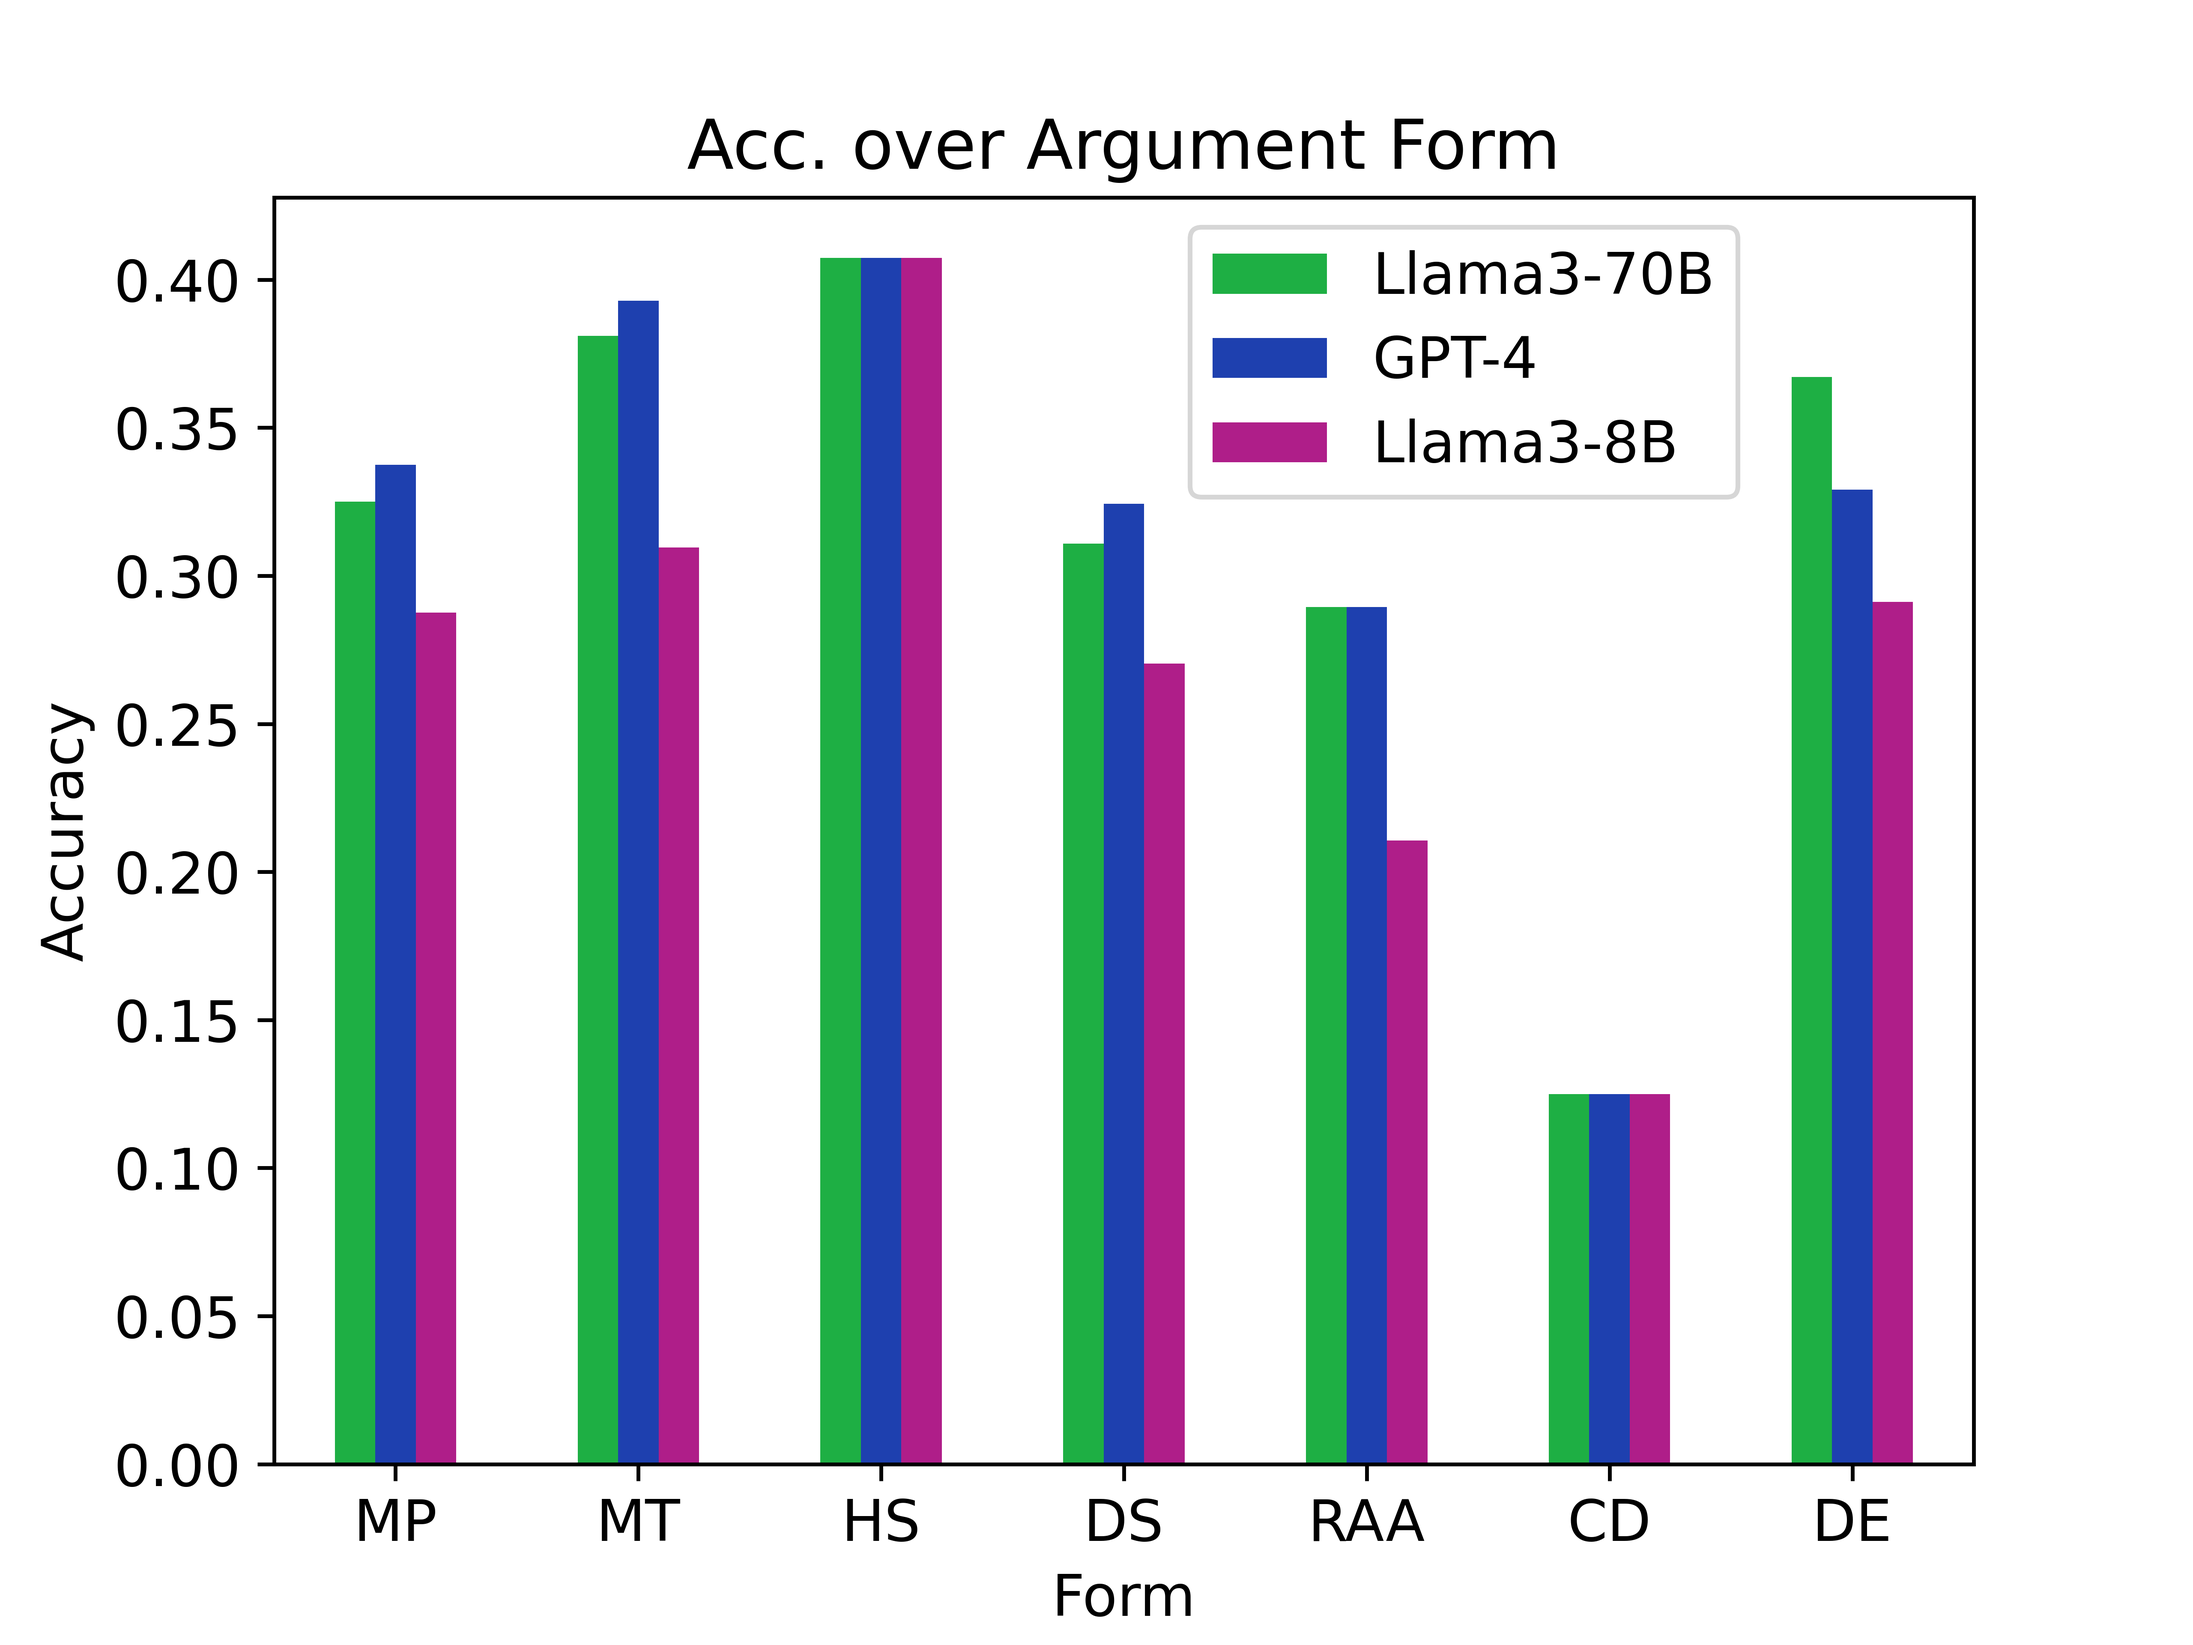
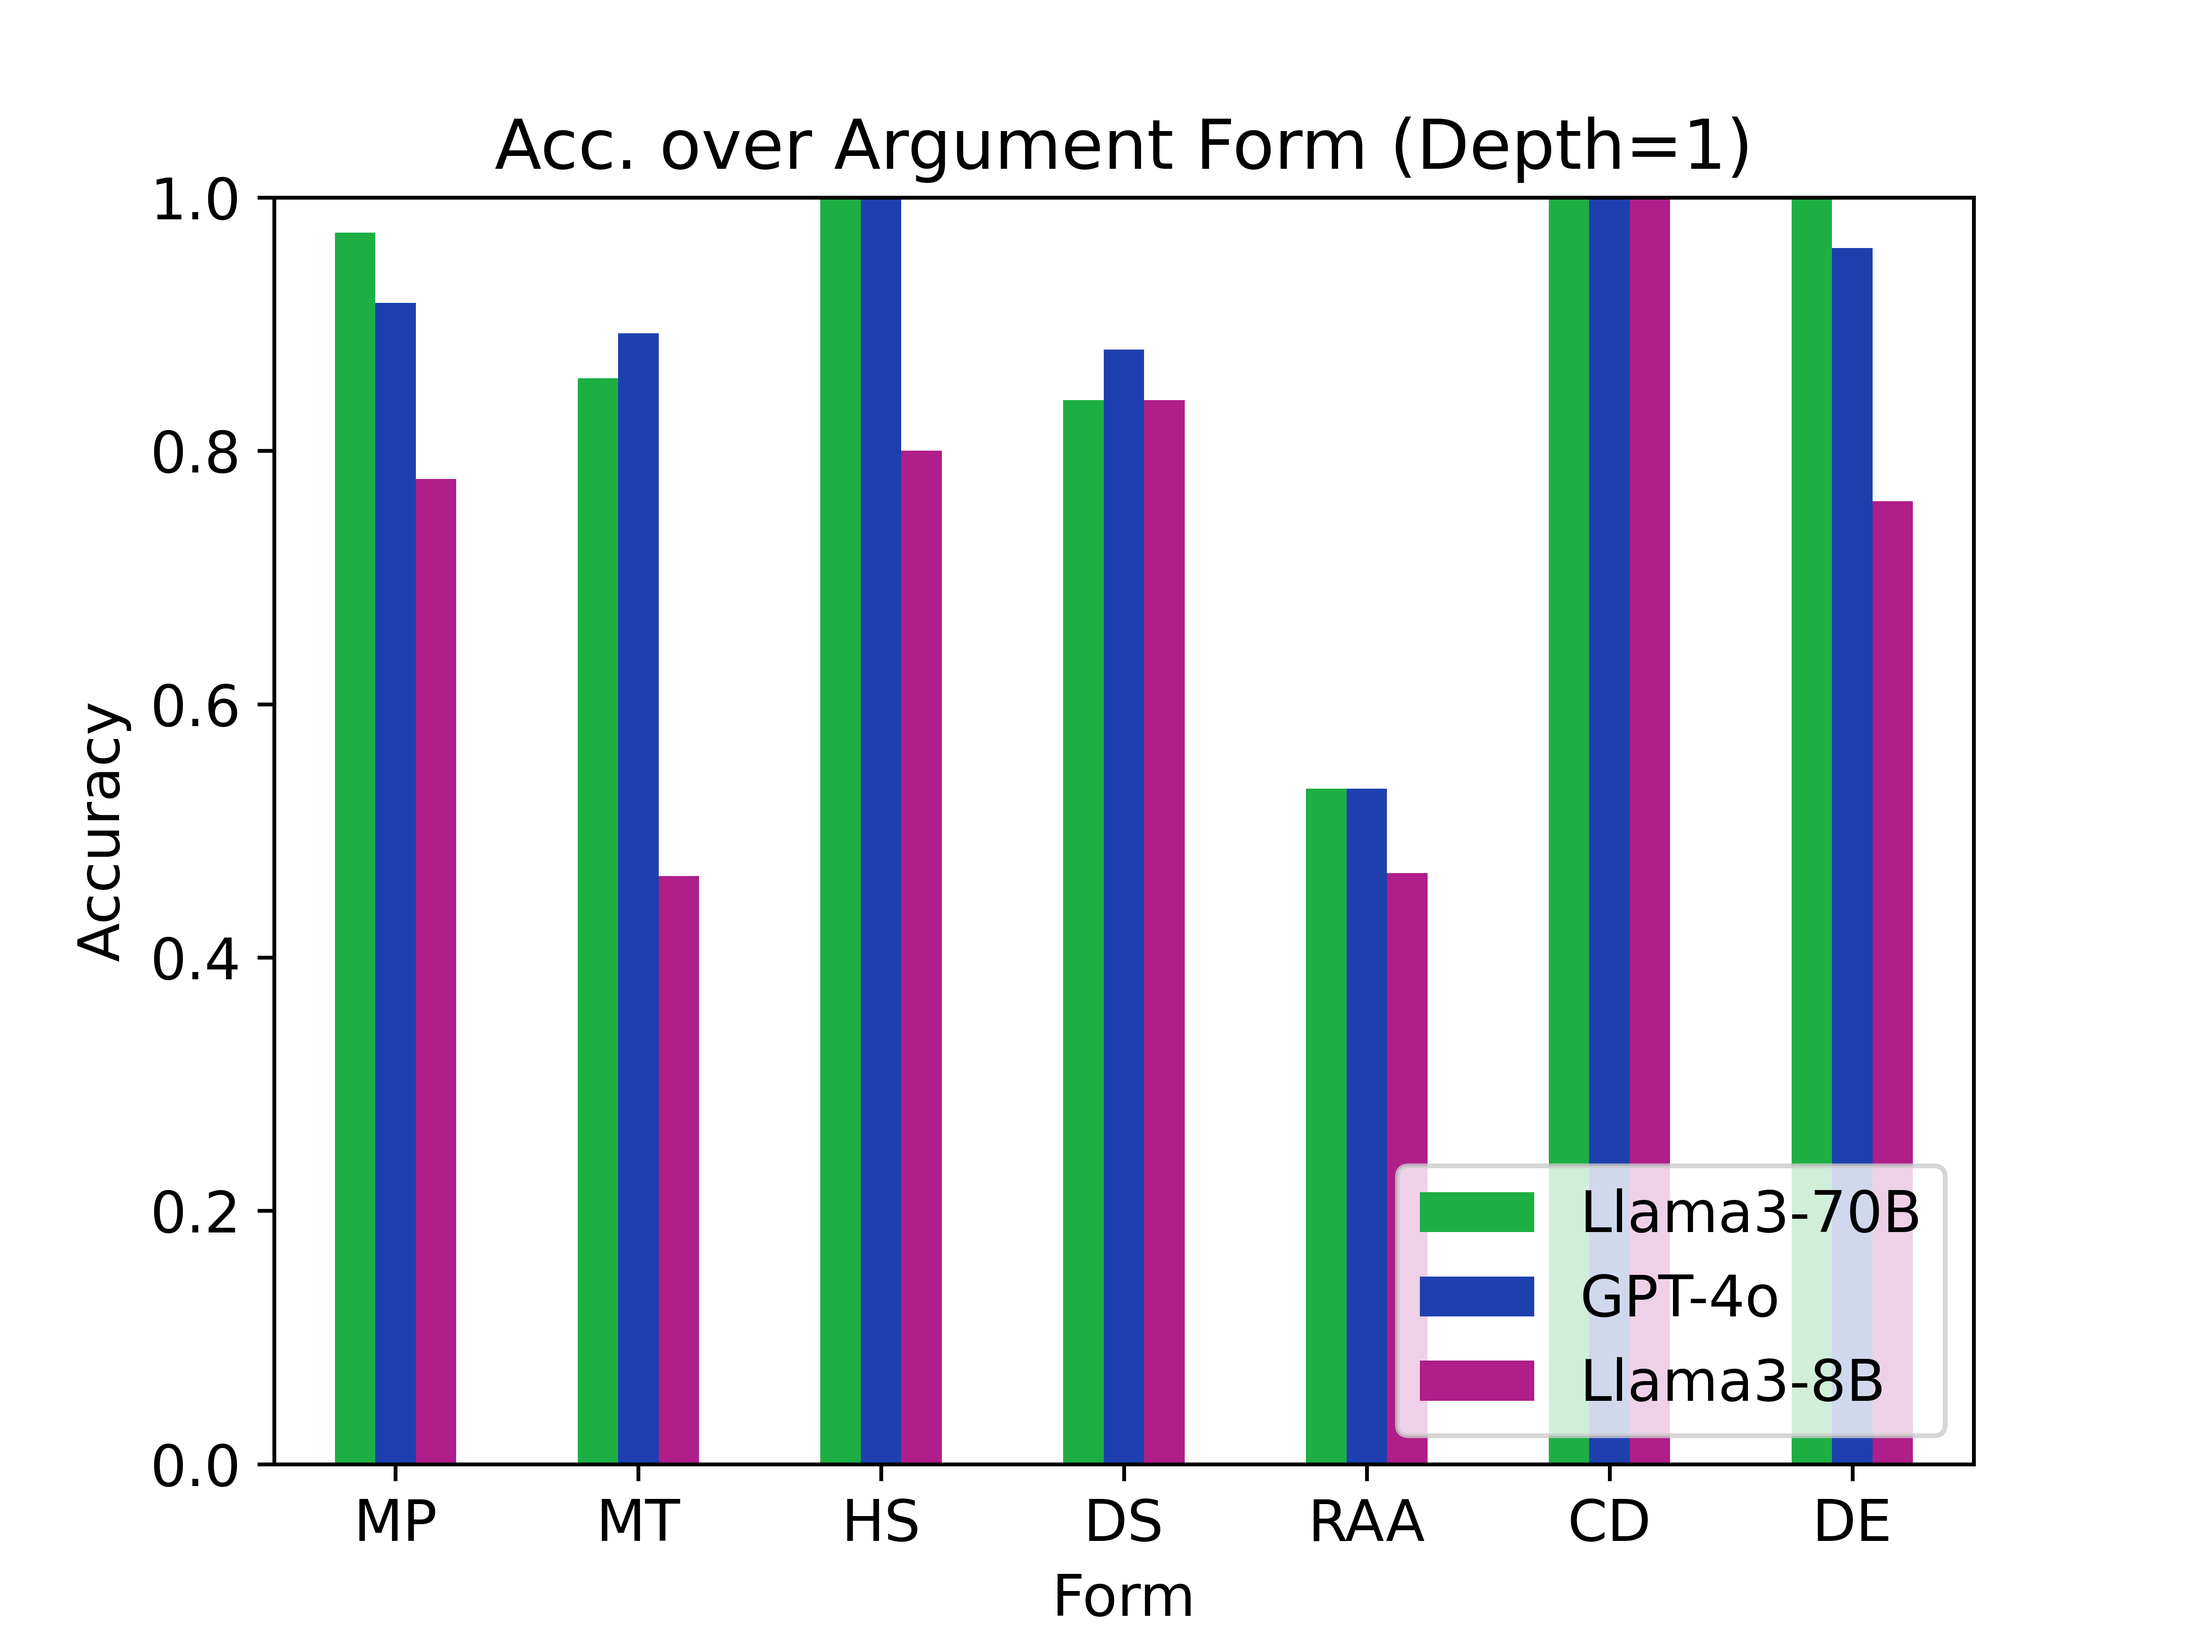
update eval metrics

diff --git a/statistics/error_analysis.py b/statistics/error_analysis.py
@@ -13,22 +13,51 @@ def get_dataframe(filename):
     df['num_of_premises'] = df.premises.str.len()
     return df
 
+def get_num_label_and_predicted(df):
+    num_labels = []
+    for l in df.label:
+        if 'true' in l or 'True' in l or 'TRUE' in l or l == True:
+            num_labels.append(1)
+        elif 'false' in l or 'False' in l or 'FALSE' in l or l == False:
+            num_labels.append(2)
+        elif 'uncertain' in l or 'Uncertain' in l:
+            num_labels.append(3)
+    df['num_label'] = num_labels
+    print(len(df.num_label))
+    num_predicted = []
+    for l in df.predicted:
+        if 'true' in l or 'True' in l or 'TRUE' in l or l == True:
+            num_predicted.append(1)
+        elif 'false' in l or 'False' in l or 'FALSE' in l or l == False:
+            num_predicted.append(2)
+        elif 'uncertain' in l or 'Uncertain' in l:
+            num_predicted.append(3)
+        else:
+            print(l)
+            print(type(l))
+    df['num_predicted'] = num_predicted
+    return df
+
 def get_acc_over_depth(filenames):
     colors = ['#AF8D1E', '#1E40AF', '#AF1E89']
     for name, filename in filenames.items():
         df = get_dataframe(filename)
+        df = get_num_label_and_predicted(df)
 
         acc_over_depth = {}
         for depth in df.depth.unique():
-            matching = df[df.depth == depth].label == df[df.depth == depth].predicted
+            matching = df[df.depth == depth].num_label == df[df.depth == depth].num_predicted
             acc_over_depth[depth] = matching.value_counts(normalize=True)[True]
         plt.plot(acc_over_depth.keys(), acc_over_depth.values(), label=name, color=colors[0])
         colors = colors[1:]
+    # human = [0.777777778,0.555555556,0.777777778,0.666666667,0.777777778,0.722222222,0.833333333]
+    # plt.plot(acc_over_depth.keys(), human, label='human')
+
     plt.title('Acc. over Reasoning Depth')
     plt.xlabel('Reasoning Depth')
     plt.ylabel('Accuracy')
     plt.legend()
-    plt.savefig('error_analysis/acc_over_depth.png', dpi=800)
+    plt.savefig('statistics/acc_over_depth.png', dpi=800)
     plt.show()
 
 def get_acc_over_arg_form(filenames):
@@ -38,105 +67,40 @@ def get_acc_over_arg_form(filenames):
     all_acc_over_form = {'Form': short_forms}
     for name, filename in filenames.items():
         df = get_dataframe(filename)
+        df = get_num_label_and_predicted(df)
 
         acc_over_form = {}
         for f in forms:
             form_df = df[df.arg.str.contains(f)]
-            form_df = form_df[form_df.depth < 3]
-            matching = form_df.label == form_df.predicted
+            form_df = form_df[form_df.depth < 2]
+            matching = form_df.num_label == form_df.num_predicted
             acc_over_form[f] = matching.value_counts(normalize=True)[True]
         all_acc_over_form[name] = list(acc_over_form.values())
+    print(all_acc_over_form)
     results_df = pd.DataFrame.from_dict(all_acc_over_form)
+    # results_df.plot(x='Form', y=list(filenames.keys()), kind='bar', rot=0, color=colors).legend(
+    #     loc='center', bbox_to_anchor=(0.25, 0.87)
+    # )
     results_df.plot(x='Form', y=list(filenames.keys()), kind='bar', rot=0, color=colors).legend(
-        loc='center', bbox_to_anchor=(0.7, 0.87)
+        loc='lower right'
     )
     # plt.xticks(rotation=90, ha='right')
-    plt.title('Acc. over Argument Form')
+    plt.title('Acc. over Argument Form (Depth=1)')
     plt.ylabel('Accuracy')
+    plt.ylim((0.0,1.0))
 
-    plt.savefig('error_analysis/acc_over_arg_form.png', dpi=800)
+    plt.savefig('statistics/acc_over_arg_form.png', dpi=800)
     plt.show()
     #     plt.bar(acc_over_form.keys(), acc_over_form.values(), label=name)
     # plt.legend()
     # plt.show()
 
-def get_acc_over_bform(filenames):
-
-    for name, filename in filenames.items():
-        df = get_dataframe(filename)
-
-        forms = ['Either', 'If', 'Not']
-        df['form_count'] = pd.Series(0, index=np.arange(len(df)))
-        for f in forms:
-            df.form_count += df.arg.str.count(f)
-        df.form_count = df.form_count
-        acc_over_bform = {}
-        for i in range(1,15):
-            form_df = df[(df.form_count >= (i*5-4)) & (df.form_count <= (i*5))]
-            matching = form_df.label == form_df.predicted
-            acc_over_bform[str(i*5-4)+'-'+str(i*5)] = matching.value_counts(normalize=True)[True]
-        plt.plot(acc_over_bform.keys(), acc_over_bform.values(), label=name)
-    
-    plt.xlabel('No. of Basic Forms')
-    plt.ylabel('Accuracy')
-    plt.legend()
-    # plt.savefig('error_analysis/acc_over_basic_form.png', dpi=800)
-    plt.show()
-
-def error_analysis(filename):
-    df = pd.read_csv(filename, converters={'premises': pd.eval}, encoding = "ISO-8859-1")
-    df.dropna(subset=['predicted'], inplace=True)
-    df['accuracy'] = df.label == df.predicted
-    df.replace(to_replace={'accuracy' : {True: 1, False: 0}}, inplace = True)
-    df['num_of_premises'] = df.premises.str.len()
-
-    # accuracy over reasoning depth
-    acc_over_depth = {}
-    for depth in df.depth.unique():
-        matching = df[df.depth == depth].label == df[df.depth == depth].predicted
-        acc_over_depth[depth] = matching.value_counts(normalize=True)[True]
-    print(acc_over_depth)
-    print()
-    plt.plot(acc_over_depth.keys(), acc_over_depth.values())
-    plt.show()
-    
-    # accuracy over arg forms (depth <= 2)
-    acc_over_form = {}
-    forms = ['Modus Ponens', 'Modus Tonens', 'Hypothetical Syllogism', 'Disjunctive Syllogism', 'Reductio Ad Absurdum', 'Constructive Dilemma', 'Disjunction Elimination']
-    for f in forms:
-        form_df = df[df.arg.str.contains(f)]
-        form_df = form_df[form_df.depth < 3]
-        matching = form_df.label == form_df.predicted
-        acc_over_form[f] = [matching.value_counts(normalize=True)[True], len(matching)]
-    print(acc_over_form)
-    print()
-
-    # accuracy over basic form
-    forms = ['Either', 'If', 'Not']
-    df['form_count'] = pd.Series(0, index=np.arange(len(df)))
-    for f in forms:
-        df.form_count += df.arg.str.count(f)
-    df.form_count = df.form_count
-    acc_over_bform = {}
-    for i in range(1,15):
-        form_df = df[(df.form_count >= (i*5-4)) & (df.form_count <= (i*5))]
-        matching = form_df.label == form_df.predicted
-        acc_over_bform[i] = [matching.value_counts(normalize=True)[True], len(matching)]
-    print(acc_over_bform)
-
-    model = sm.formula.logit("accuracy ~   + depth + form_count + num_of_premises",
-                    data=df).fit()
-
-    print(model.summary())
-    print('\n')
 
 if __name__ == "__main__":
     all_colors = ['#1E40AF', '#AF1E89', '#AF8D1E', '#1EAF44']
     get_acc_over_arg_form({
         # 'OpenAI o1-preview': 'eval/3_shot_cot_w_depth_openai_o1_results.csv',
         'Llama3-70B': 'eval/3_shot_cot_w_depth_llama70B_results.csv',
-        'GPT-4': 'eval/3_shot_cot_w_depth_gpt4_results.csv',
-        'Llama3-8B': 'eval/0_shot_llama8B_results.csv'
+        'GPT-4o': 'eval/3_shot_cot_w_depth_gpt4o_results.csv',
+        'Llama3-8B': 'eval/3_shot_cot_w_depth_llama8B_results.csv'
     })
-    # error_analysis('eval/3_shot_cot_w_depth_openai_o1_results.csv')
-    # error_analysis('eval/3_shot_cot_w_depth_llama70B_results.csv')

diff --git a/eval/eval.py b/eval/eval.py
@@ -3,10 +3,39 @@ import pandas as pd
 def eval(filename):
     df = pd.read_csv(filename, encoding = "ISO-8859-1")
     df.dropna(subset=['predicted'], inplace=True)
-    print(len(df))
-    # df.replace({True: 'Correct', False: 'Incorrect'})
+    # df = df[df.depth == 1]
 
-    matching = df.label == df.predicted
+    # true, false, uncertain
+    num_labels = []
+    for l in df.label:
+        if 'true' in l or 'True' in l or 'TRUE' in l or l == True:
+            num_labels.append(1)
+        elif 'false' in l or 'False' in l or 'FALSE' in l or l == False:
+            num_labels.append(2)
+        elif 'uncertain' in l or 'Uncertain' in l:
+            num_labels.append(3)
+    df['num_label'] = num_labels
+    print(len(df.num_label))
+    num_predicted = []
+    for l in df.predicted:
+        if 'true' in l or 'True' in l or 'TRUE' in l or l == True:
+            num_predicted.append(1)
+        elif 'false' in l or 'False' in l or 'FALSE' in l or l == False:
+            num_predicted.append(2)
+        elif 'uncertain' in l or 'Uncertain' in l:
+            num_predicted.append(3)
+    df['num_predicted'] = num_predicted
+
+    # df['label'] = df['label'].astype('str')
+    # df['label'] = df.label.str.lower()
+    # df['predicted'] = df['predicted'].astype('str') 
+    # df['label'] = df.label.str.lower()
+    # # df.replace({True: 'Correct', False: 'Incorrect'})
+
+    print(df.iloc[0])
+
+    matching = df.num_label == df.num_predicted
+    print(matching[:10])
     print('sample size:', len(df))
     print('overall acc:', matching.value_counts(normalize=True)[True])
 

diff --git a/ci_eval/eval.py b/ci_eval/eval.py
@@ -1,11 +1,40 @@
 import pandas as pd
 
+def get_num_label_and_predicted(df):
+    num_labels = []
+    for l in df.label:
+        if 'true' in l or 'True' in l or 'TRUE' in l or l == True:
+            num_labels.append(1)
+        elif 'false' in l or 'False' in l or 'FALSE' in l or l == False:
+            num_labels.append(2)
+        elif 'uncertain' in l or 'Uncertain' in l:
+            num_labels.append(3)
+    df['num_label'] = num_labels
+    print(len(df.num_label))
+    num_predicted = []
+    for l in df.predicted:
+        if 'true' in l or 'True' in l or 'TRUE' in l or l == True:
+            num_predicted.append(1)
+        elif 'false' in l or 'False' in l or 'FALSE' in l or l == False:
+            num_predicted.append(2)
+        elif 'uncertain' in l or 'Uncertain' in l:
+            num_predicted.append(3)
+        else:
+            print(l)
+            print(type(l))
+    df['num_predicted'] = num_predicted
+    return df
+
 def eval(filename):
     df = pd.read_csv(filename)[:300]
-
-    matching = df.label == df.predicted
+    if 'justlogic' in filename:
+        df = get_num_label_and_predicted(df)
+        matching = df.num_label == df.num_predicted
+    else:
+        matching = df.label == df.predicted
+    print(matching[:10])
     print('sample size:', len(df))
     print('overall acc:', matching.value_counts(normalize=True)[True])
 
 if __name__ == "__main__":
-    eval('ci_eval/results_gpt4_folio.csv')
+    eval('ci_eval/ci_results_proofwriter.csv')
